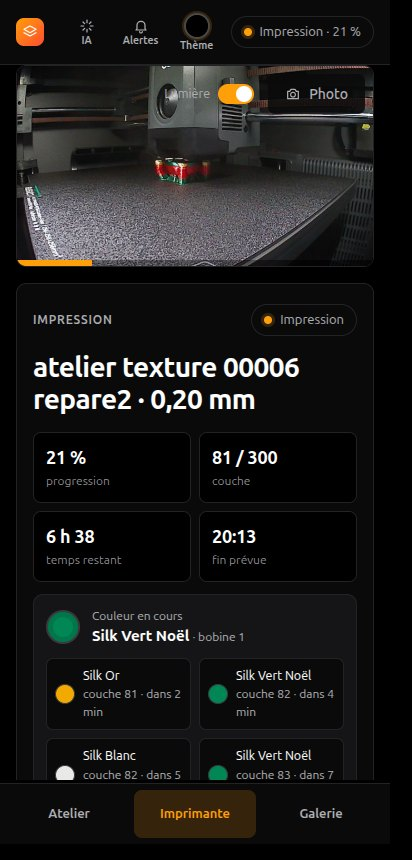
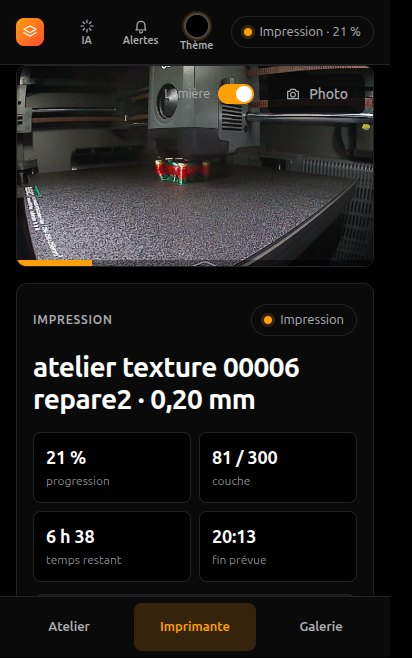
Page d'accueil : téléphone moins haut

diff --git a/docs/index.html b/docs/index.html
@@ -127,7 +127,7 @@
     <div class="stage">
       <div class="browser"><div class="bar"><i></i><i></i><i></i><span>atelier · Imprimante</span></div>
         <img src="suivi.jpg" alt="L'onglet Imprimante pendant une vraie impression en quatre couleurs : progression, couleur en cours et à venir, caméra, bobines du CANVAS, vue couche par couche" width="1092" height="1070"></div>
-      <div class="phone"><img src="telephone.jpg" alt="Le même suivi sur un téléphone : caméra, progression et couleur en cours" width="412" height="860"></div>
+      <div class="phone"><img src="telephone.jpg" alt="Le même suivi sur un téléphone : caméra, progression et couleur en cours" width="412" height="658"></div>
     </div>
   </div>
 
@@ -175,7 +175,7 @@
         tablette, avec la vue en coupe de l'impression. Hors de chez toi, par Tailscale : aucun port ouvert.</p>
       <div class="duo">
         <div class="tablet"><img src="tablette.jpg" alt="Le tableau de bord sur une tablette : caméra en grand, progression, couleurs et vue en coupe" width="1002" height="750"></div>
-        <div class="phone"><img src="telephone.jpg" alt="L'atelier sur un téléphone" width="412" height="860"></div>
+        <div class="phone"><img src="telephone.jpg" alt="L'atelier sur un téléphone" width="412" height="658"></div>
       </div>
     </div>
   </section>
